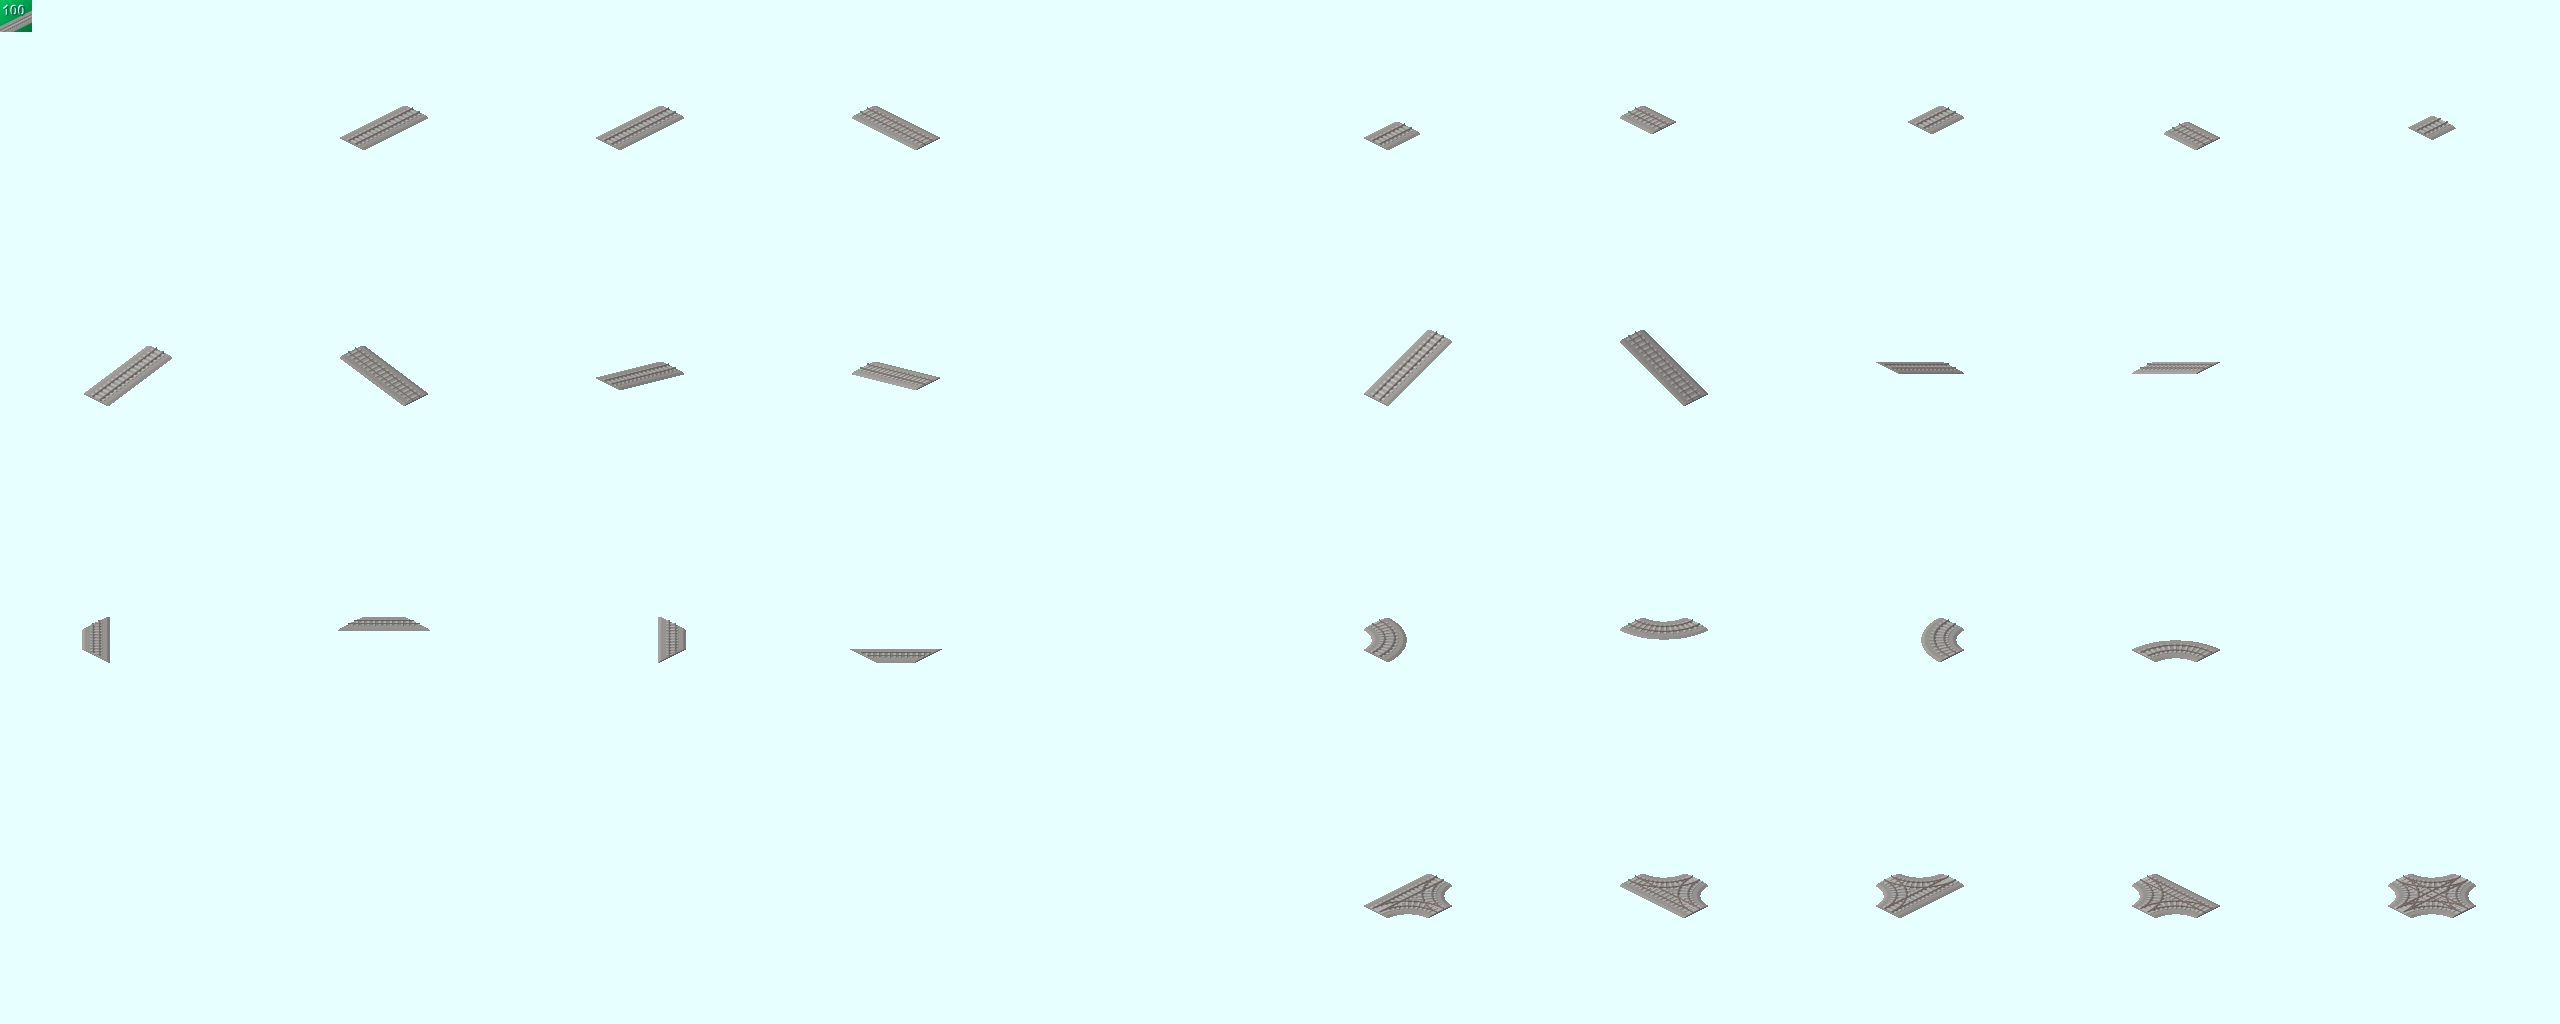
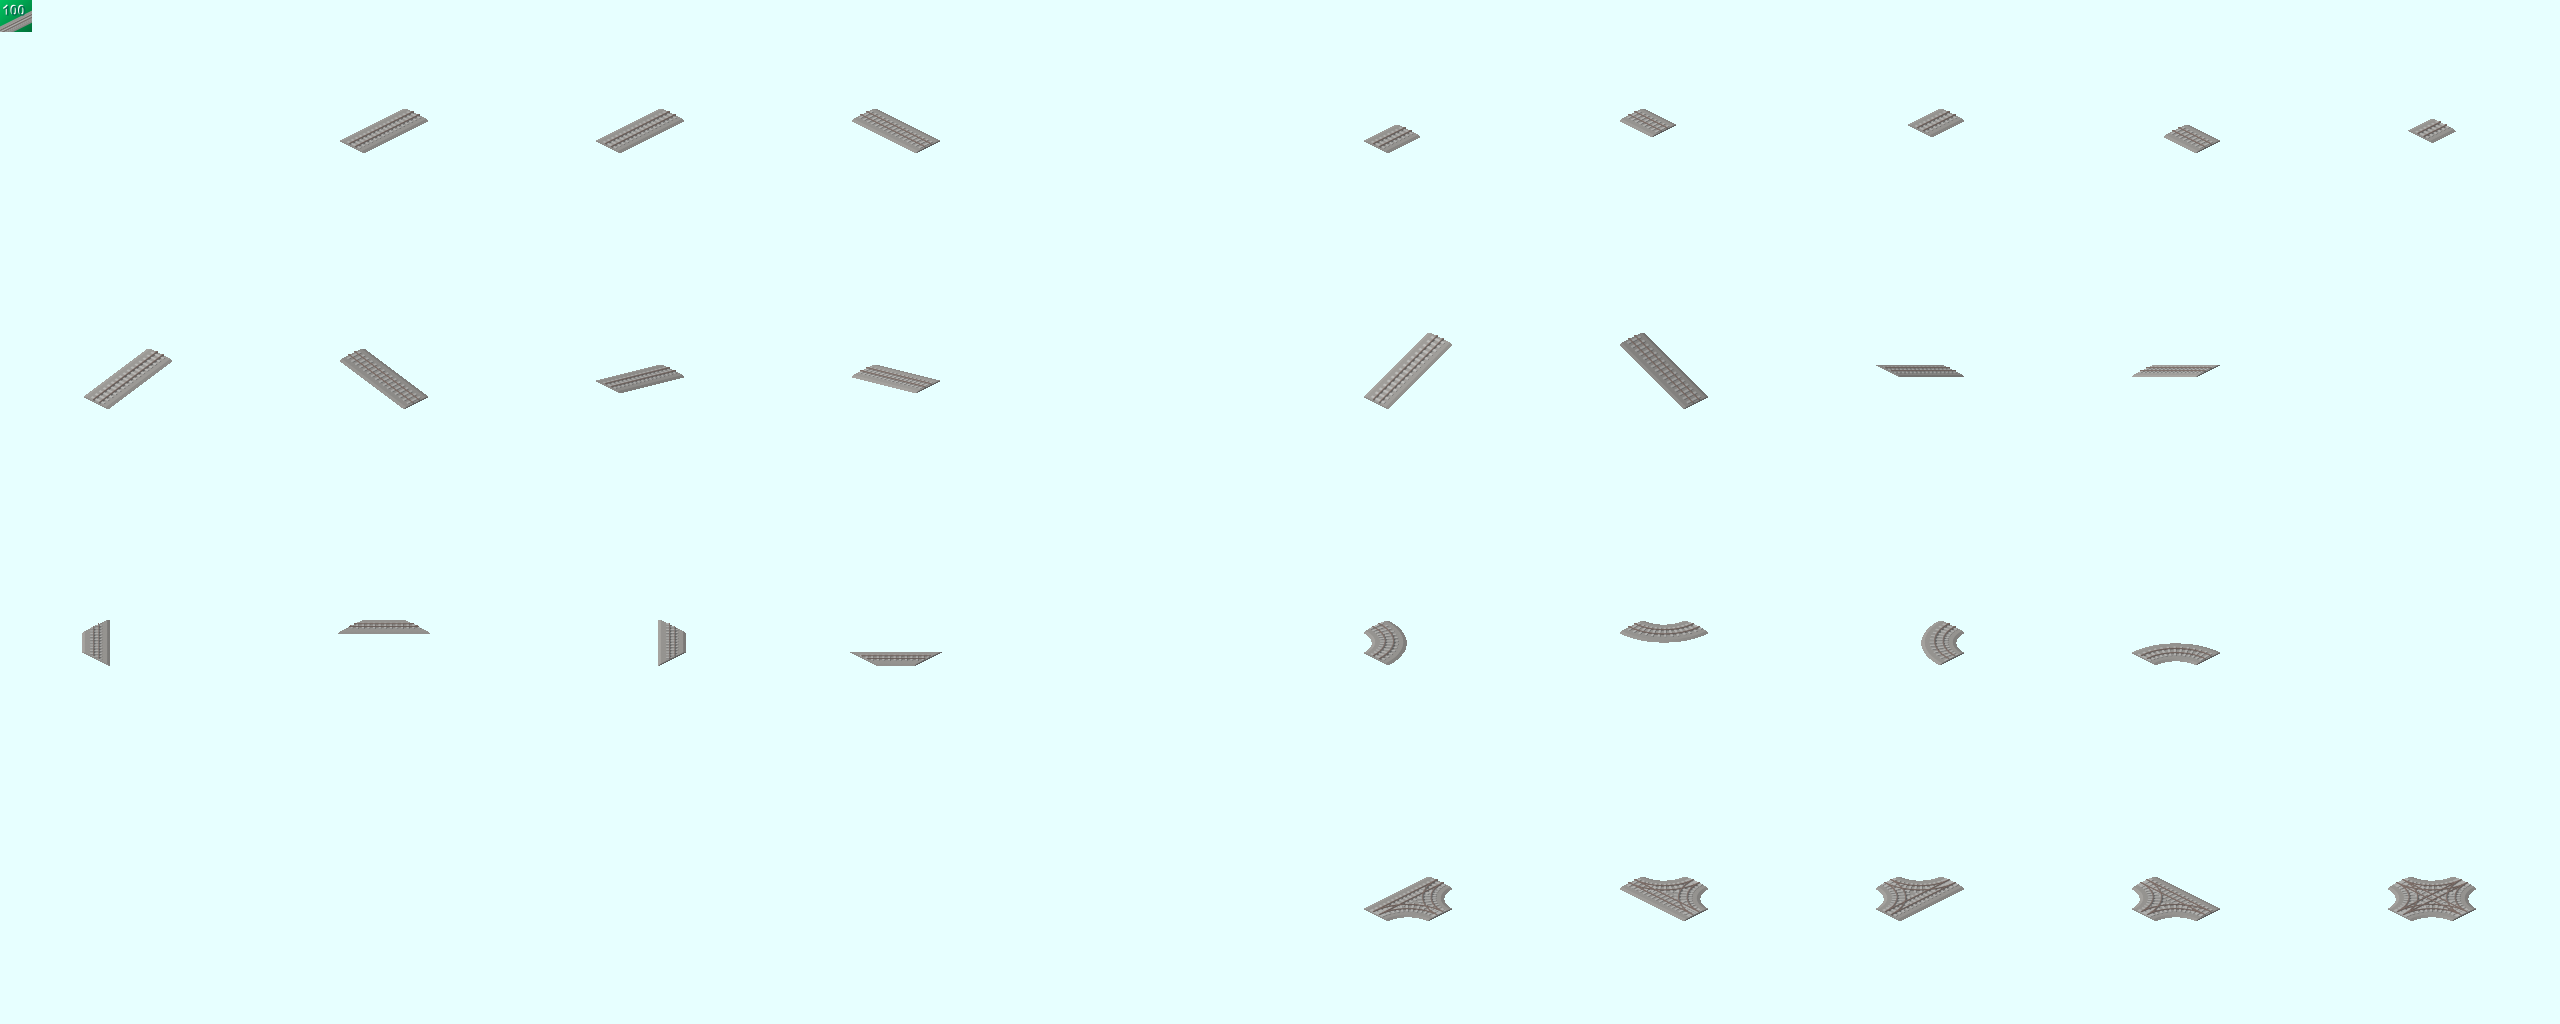
Add old/new track drawing positions to blender-poc
- Render the track twice: new position (matches iss, 3px down) and
  old position (matches SIS, 1px up) as bpoc_track / bpoc_track_old.
- Narrow the rail gauge to 6px on screen, matching iss and SIS.
- Add ingame/seam.nut to check seams against SIS and pak128 Rail_100,
  with screenshots in docs/.

diff --git a/addons/blender-poc/blender/render.py b/addons/blender-poc/blender/render.py
@@ -207,7 +207,8 @@ def arc(center, start_deg, end_deg, radius=TILE / 2, n=24, ext=0.6):
 BALLAST_H = 0.12
 BALLAST = [(-1.9, 0.0), (1.9, 0.0), (1.55, BALLAST_H), (-1.55, BALLAST_H)]
 SLEEPER_Z, SLEEPER_H, SLEEPER_LEN = 0.15, 0.08, 2.0
-RAIL_IN, RAIL_OUT, RAIL_Z0, RAIL_Z1 = 0.5, 0.6, 0.19, 0.30
+# レールの間隔は iss・SIS に合わせて画面上 6px（直線で 1単位 ≈ 6.4px）
+RAIL_IN, RAIL_OUT, RAIL_Z0, RAIL_Z1 = 0.417, 0.517, 0.19, 0.30
 
 # 斜めのタイルの横幅の倍率。3D のまま描くと、斜めは横幅が縮まずに映って直線の約1.6倍太く見える。
 # 画面上で直線と同じ太さに見える比率 2/√10 にする（pak128 標準も斜めはレール間隔を細く描く）
@@ -342,7 +343,18 @@ def make_sheet(cells, rows, cols, out):
 
 # ---------------------------------------------------------------- 各アドオン
 
-def track_sheet():
+# 線路の描画位置。形状は同じで、画面上の上下位置だけを整数 px ずらす（正: 下へ）
+#   new: 新描画位置（道床が低い。今の pak128・iss）
+#   old: 旧描画位置（道床が高い。古い pak128・SIS）
+# iss と SIS を比べると、どの方位でもレールが画面上で 4〜4.5px 違うだけだった
+TRACK_PROFILES = {
+    "new": {"sheet": "track", "dy": 3},
+    "old": {"sheet": "track_old", "dy": -1},
+}
+
+
+def track_sheet(profile="new"):
+    prof = TRACK_PROFILES[profile]
     half = TILE / 2
     N, S, E, W, O = (0, half), (0, -half), (half, 0), (-half, 0), (0, 0)
     up = lambda f: (lambda x, y: f(x, y))
@@ -384,7 +396,7 @@ def track_sheet():
         (3, 8): ("sew", [straight(W, E), arc_sw, arc_se], None),
         (3, 9): ("nsew", [straight(S, N), straight(W, E), arc_sw, arc_nw, arc_ne, arc_se], None),
     }
-    set_anchor(128)  # dat オフセット -64,-32 と対応
+    set_anchor(128 + prof["dy"])  # dat オフセット -64,-32 と対応
     cells = {}
     for pos, (name, paths, slope) in jobs.items():
         clear_models()
@@ -392,9 +404,10 @@ def track_sheet():
             build_track(paths, slope, rail_scale=DIAG_RAIL, ballast_scale=DIAG_BALLAST)
         else:
             build_track(paths, slope)
-        cells[pos] = render_cell("track_" + name)
+        cells[pos] = render_cell(f"{prof['sheet']}_{name}")
 
     # 確認用: タイル菱形そのもの（基準位置の検証に使う。シートには入れない）
+    set_anchor(128)
     clear_models()
     v, f = box(0, 0, -0.001, TILE, TILE, 0.002)
     mesh_object("tile", v, f, material("tile", (0.5, 0.5, 0.5)))
@@ -411,7 +424,7 @@ def track_sheet():
     cells[(0, 0)] = render_icon("track_icon", 0.5, shift=(-0.14, 0.2), label="100")
     cells[(0, 1)] = cells[(0, 2)]  # カーソルは ns と同じ絵
 
-    make_sheet(cells, 4, 10, os.path.join(SRC, "track.png"))
+    make_sheet(cells, 4, 10, os.path.join(SRC, prof["sheet"] + ".png"))
 
 
 ICON = 32
@@ -518,8 +531,10 @@ if __name__ == "__main__":
     os.makedirs(SRC, exist_ok=True)
     setup_scene()
     print(f"[info] ortho={ORTHO:.4f} px/unit={PX_PER_UNIT:.4f} height_step={H:.4f}")
-    targets = sys.argv[sys.argv.index("--") + 1:] if "--" in sys.argv else ["track", "tollbooth"]
+    targets = sys.argv[sys.argv.index("--") + 1:] if "--" in sys.argv else ["track", "track_old", "tollbooth"]
     if "track" in targets:
-        track_sheet()
+        track_sheet("new")
+    if "track_old" in targets:
+        track_sheet("old")
     if "tollbooth" in targets:
         tollbooth_sheet()

diff --git a/addons/blender-poc/README.md b/addons/blender-poc/README.md
@@ -12,7 +12,8 @@ iss（Illustrator で作ったインフラアドオン）の作り方を Blender
 | `blender/render.py` | Blender をコマンドで動かし、形状をスクリプトで組み立てて描画し、シート画像を作る |
 | `blender/check.py` | 描画位置の検証。タイル菱形の位置と、iss の既存画像との描画範囲を比べる |
 | `blender/preview.py` | 確認用の拡大画像 `work/preview.png` を作る |
-| `src/track.dat` | 線路（道床に厚みあり）。セル配置は iss の線路と同じ |
+| `src/track.dat` | 線路・新描画位置（道床が低い。今の pak128・iss）。セル配置は iss の線路と同じ |
+| `src/track_old.dat` | 線路・旧描画位置（道床が高い。古い pak128・SIS）。形は `track.dat` と同じで、名前は `bpoc_track_old` |
 | `src/tollbooth.dat` | 料金所風の建物（駅の付属建物扱い）。屋根がタイルからはみ出す |
 
 ## 必要なもの
@@ -26,7 +27,7 @@ iss（Illustrator で作ったインフラアドオン）の作り方を Blender
 
 ```powershell
 D:\bin\blender\blender.exe -b --factory-startup --python blender/render.py
-cd src; makeobj pak256 ..\dist\bpoc.pak track.dat tollbooth.dat; cd ..
+cd src; makeobj pak256 ..\dist\bpoc.pak track.dat track_old.dat tollbooth.dat; cd ..
 ```
 
 iss と同じく `pak256` で 256px セルとして切り出す（ゲームは pak128）。
@@ -45,7 +46,11 @@ D:\bin\blender\blender.exe -b --factory-startup --python blender/check.py -- ..\
 - タイル中心をセルの (128,128) に映す → dat オフセット `-64,-32`（線路）
   建物はカメラをずらして (128,192) に映す → `-64,-96`
 - 線路はタイルの範囲で切り抜いて（Boolean）、隣のタイルとの継ぎ目をそろえる
-- 線路の高さは pak128 標準に合わせてほぼ平ら: 道床の厚み 0.12（約1px）、レール上面 0.30（約2px）
+- 線路の形はほぼ平ら（道床の厚み 0.12 ≈ 1px、レール上面 0.30 ≈ 2px）で、新・旧の描画位置で共通
+- レールの間隔は iss・SIS と同じく画面上 6px（直線）。レール中心の間隔 0.934（1単位 ≈ 6.4px）
+- 新描画位置と旧描画位置は、画面上の上下位置だけが違う。カメラを整数 px ずらして描き分ける（`render.py` の `TRACK_PROFILES`）。
+  タイル中心を基準にして、新は 3px 下げ（iss に合わせる）、旧は 1px 上げ（SIS に合わせる）。
+  iss と SIS のレールの位置を比べると、直線・斜め・坂のどの方位でも、画面上で 4〜4.5px 上下にずれているだけだった
 - 斜めのタイルはレール・まくらぎの横幅を 2/√10（≈0.63）倍、道床を 0.8 倍にする。
   3D のまま描くと斜めは横幅が縮まずに映り、直線の約1.6倍太く見えるため（pak128 標準も斜めはレール間隔を細く描く）
 - 後処理は iss と同じ: 特殊色にたまたま一致した画素は +1 ずらす。アルファ25未満は `#E7FFFF`、それ以外は不透明にする
@@ -60,7 +65,7 @@ D:\bin\blender\blender.exe -b --factory-startup --python blender/check.py -- ..\
 - 分岐（T字）`nse`/`new`/`nsw`/`sew` は「直線＋枝へ両側から入るカーブ」、十字 `nsew` は「直線2本＋4方向のカーブ」。
   どちら側へ分かれても線がつながって見える。分岐部でまくらぎが交差する。
   田の字・菱形・十字の確認パターン（`flat.sve`）でゲーム内表示を確認（`docs/ingame_junctions*.png`）
-- 全セル（線路24 + 建物4 + アイコン2）の描画からシート化まで約8秒
+- 全セル（線路29×2（新・旧）+ 建物4 + アイコン3）の描画からシート化まで約8秒
 - makeobj で pak 化成功（警告なし）
 - ゲーム内で表示を確認（Simutrans OTRP v62.4 / pak128、`docs/ingame.png`・`docs/ingame_detail.png`）:
   直線・端・分岐とカーブ・斜めの連続・坂（1段上げた土地への上り）が途切れずにつながる。
@@ -70,8 +75,26 @@ D:\bin\blender\blender.exe -b --factory-startup --python blender/check.py -- ..\
   ゲーム内のツールバーで確認済み（`docs/ingame_icon_track.png`・`docs/ingame_icon_tollbooth.png`）
 - `ingame/place.nut` は `flat.sve`（平地だけのマップ）でも全項目成功
 - pak128 標準の線路（Rail_100 / Rail_200）と並べて比較（`ingame/compare.nut`）:
-  高さ・斜めのレール間隔はほぼ同じになった（`docs/compare_straight.png`・`docs/compare_diagonal.png`、
-  直す前は `docs/compare_diagonal_before.png`）。標準より道床がやや狭く、砂利の質感が無い
+  斜めのレール間隔はほぼ同じになった（`docs/compare_straight.png`・`docs/compare_diagonal.png`、
+  直す前は `docs/compare_diagonal_before.png`）。標準より道床がやや狭く、砂利の質感が無い。
+  並べて敷いただけでは上下位置のずれは分からない（下の「描画位置の描き分け」で確かめ直した）
+
+### 描画位置の描き分け（2026-11-12）
+
+- 描き分ける前の線路は、レールが SIS より 1px 低く、iss より約 3px 高かった。ほぼ旧描画位置にあった
+- 描き分けの後、レールの間隔が基準より約 1.1px 広かった（直線 7.1px と 6.0px）ので、6px に詰めた。
+  列ごとにレール2本の位置を比べると、旧と SIS・新と iss の差は直線・坂・斜めのどれも 0.4px 以内
+- 描き分けた後、iss と照合（`check.py`）: 直線・端・坂・斜め・分岐は重心のずれ 0.7〜3.5px（端は 8.6〜9.8px）。
+  カーブ `curve_sw`/`curve_ne` だけ 12.1px で基準の 12px をわずかに超えた。
+  iss のカーブはタイルの外まで描く別の作りで、もともと差が大きいところ（上の「カーブは描き方が違う」）
+- ゲーム内のつなぎ目（`ingame/seam.nut`。比べる線路 → 検証用の線路 → 比べる線路 の順に1本につなぐ）:
+  - 旧描画位置と SIS（`way.SIS_ShinkansenTrack_Ballast_E01_ds.pak`）: 東西・南北の直線、斜め（SIS のカーブとの境目）、
+    坂の下の境目で、2本のレールが段差なくつながった（`docs/seam_old.png`・`docs/seam_old_straight.png`・`docs/seam_old_detail.png`）。
+    違いはレールの色合い（SIS は赤茶色）と、SIS が新幹線用でタイル全体が道床なこと
+  - 新描画位置と pak128 標準 Rail_100: 目立つ段差は無い。ただし Rail_100 は道床の幅も模様も違い、
+    レールも暗くて見分けにくいので、1〜2px の差までは判定できていない（`docs/seam_new.png`・`docs/seam_new_detail.png`）
+  - 検証用のカーブが pak128 標準の斜めとつながる所では、カーブの丸みが大きく張り出して見える（`docs/seam_new.png` の中央）
+- SIS は 1959 年登場だが、`flat.sve`（1930 年）でもスクリプトからは敷けた
 
 ## ゲーム内での確認
 
